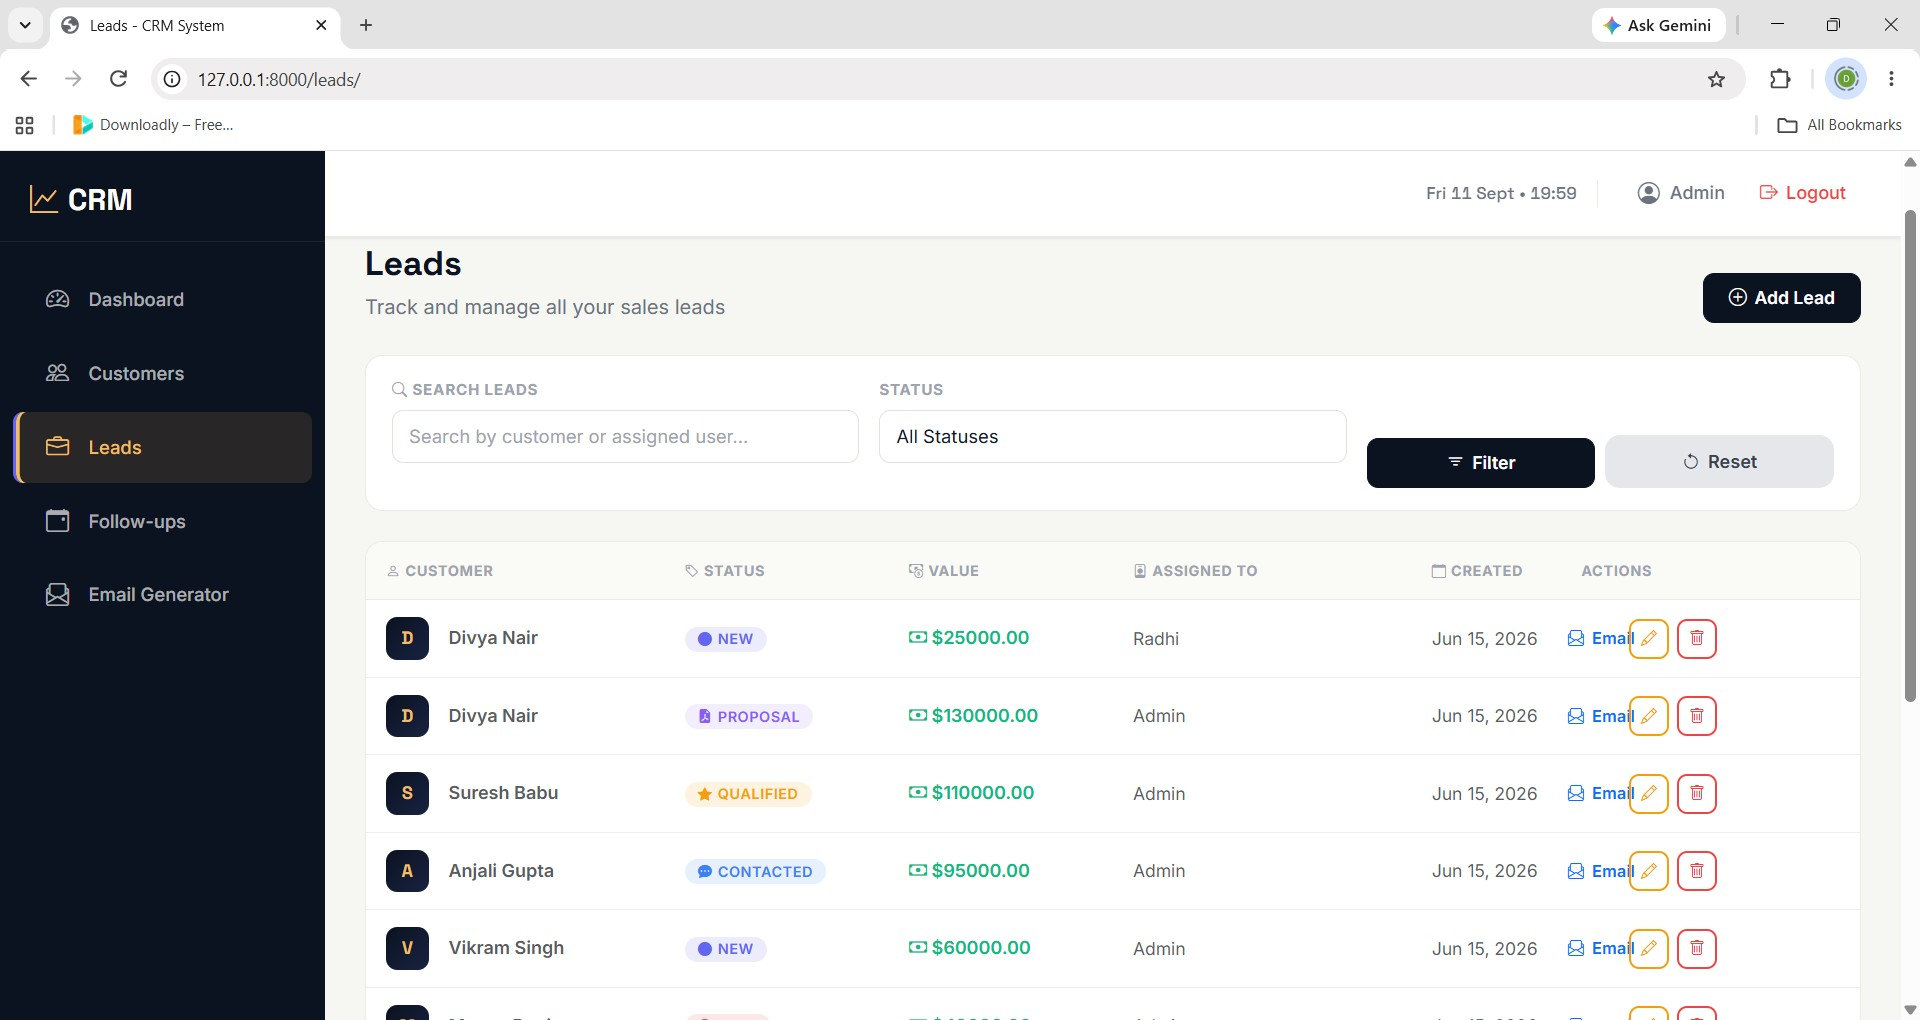
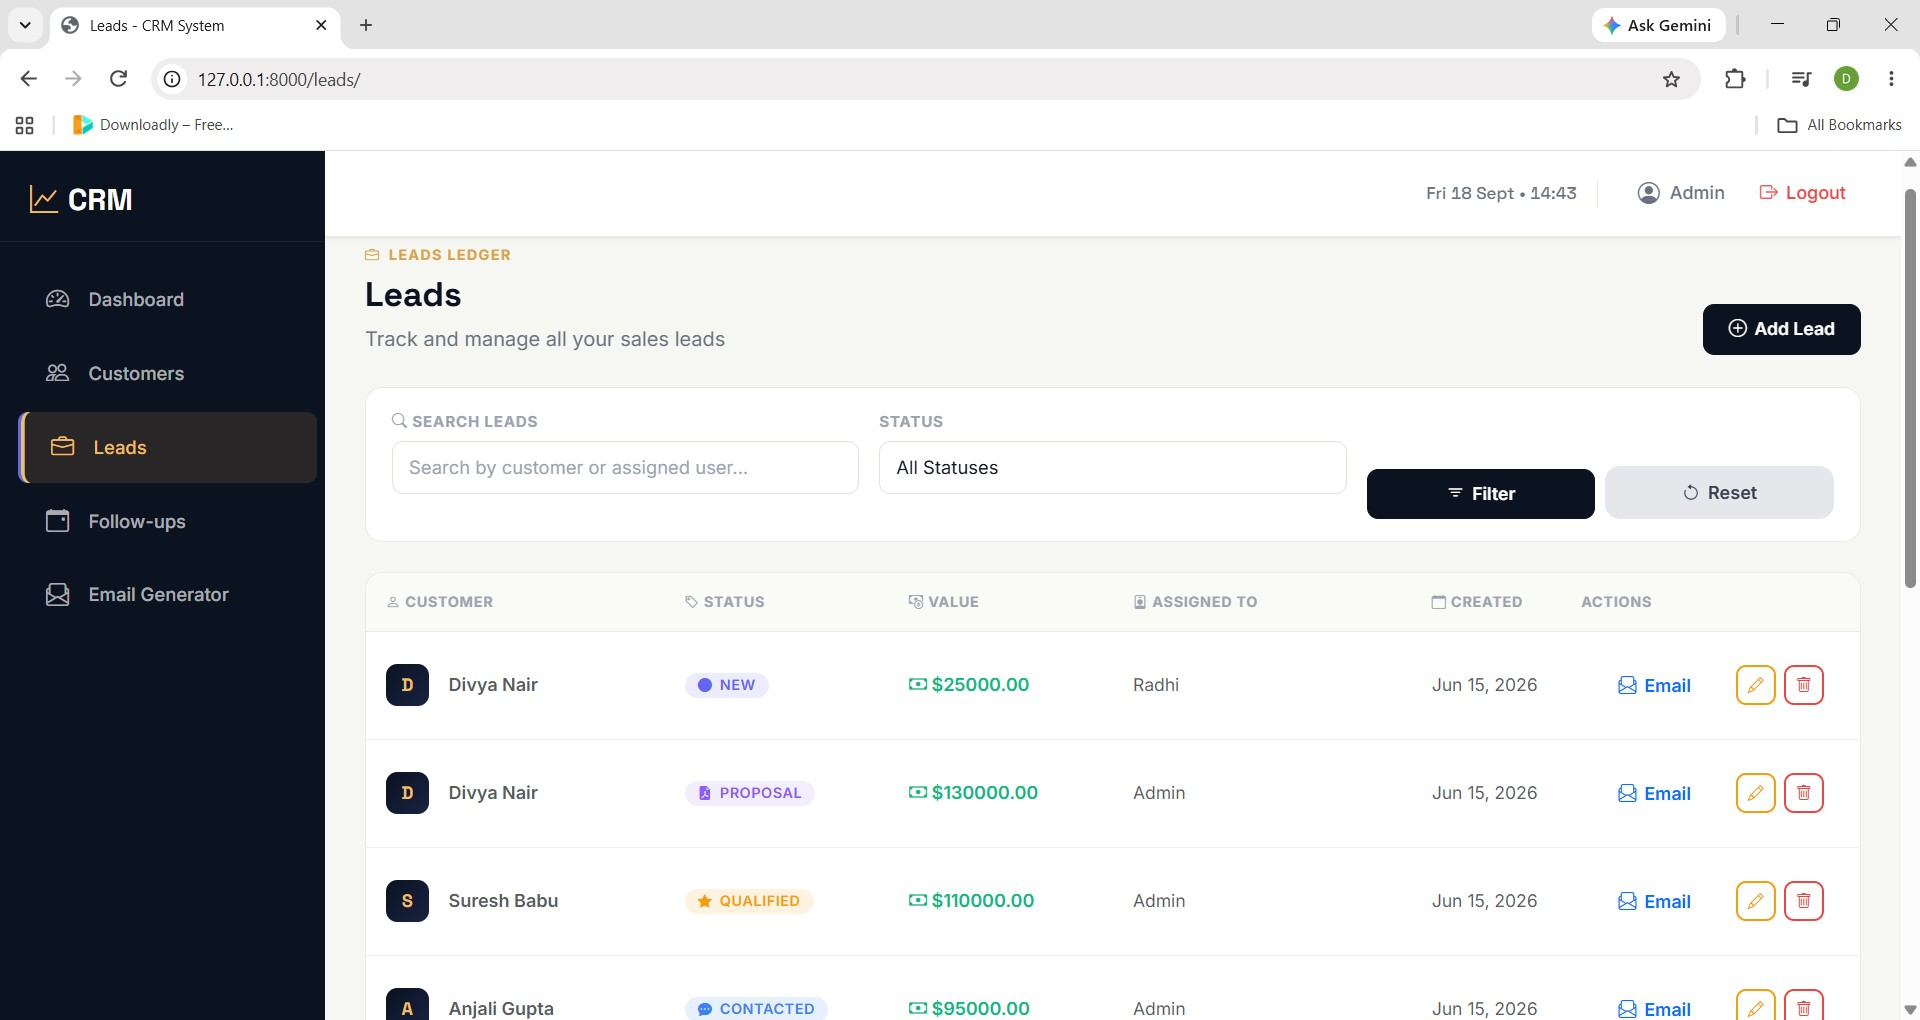
save llm CHANGES

diff --git a/crm_app/static/css/style.css b/crm_app/static/css/style.css
@@ -784,15 +784,161 @@ select.form-control {
   to   { opacity: 1; transform: translateY(0); }
 }
 
+@keyframes fadeInUp {
+  from {
+    opacity: 0;
+    transform: translateY(18px) scale(0.985);
+  }
+  to {
+    opacity: 1;
+    transform: translateY(0) scale(1);
+  }
+}
+
+@keyframes slideInRight {
+  from {
+    opacity: 0;
+    transform: translateX(24px);
+  }
+  to {
+    opacity: 1;
+    transform: translateX(0);
+  }
+}
+
+@keyframes pulseGlow {
+  0% { box-shadow: 0 0 0 0 rgba(99, 102, 241, 0.4); }
+  70% { box-shadow: 0 0 0 8px rgba(99, 102, 241, 0); }
+  100% { box-shadow: 0 0 0 0 rgba(99, 102, 241, 0); }
+}
+
+@keyframes badgePulse {
+  0%, 100% { transform: scale(1); }
+  50% { transform: scale(1.05); }
+}
+
 @keyframes spin {
   to { transform: rotate(360deg); }
 }
 
-.animate-fadein  { animation: fadeIn  0.4s ease-out; }
-.animate-slideup { animation: slideUp 0.4s ease-out; }
+/* Global Smooth Transitions & Micro-Interactions */
+.animate-fadein  { animation: fadeIn 0.45s ease-out forwards; }
+.animate-slideup { animation: slideUp 0.45s cubic-bezier(0.16, 1, 0.3, 1) forwards; }
+.animate-fadein-up { animation: fadeInUp 0.5s cubic-bezier(0.16, 1, 0.3, 1) forwards; }
 
-.dashboard-container { animation: fadeIn 0.4s ease-out; }
-.customer-list-container { animation: fadeIn 0.4s ease-out; }
+.dashboard-container,
+.customer-list-container,
+.lead-list-container,
+.page-container {
+  animation: fadeInUp 0.45s cubic-bezier(0.16, 1, 0.3, 1) forwards;
+}
+
+/* Staggered Delay Helpers */
+.stagger-1 { animation-delay: 0.05s; }
+.stagger-2 { animation-delay: 0.10s; }
+.stagger-3 { animation-delay: 0.15s; }
+.stagger-4 { animation-delay: 0.20s; }
+.stagger-5 { animation-delay: 0.25s; }
+
+/* Interactive Hover Lifts & Dynamic Shadows */
+.stat-card, 
+.card, 
+.info-card,
+.generator-card,
+.auth-card {
+  transition: transform 0.3s cubic-bezier(0.16, 1, 0.3, 1), 
+              box-shadow 0.3s cubic-bezier(0.16, 1, 0.3, 1), 
+              border-color 0.3s ease;
+}
+
+.stat-card:hover, 
+.card:hover, 
+.info-card:hover {
+  transform: translateY(-4px);
+  box-shadow: 0 14px 28px -6px rgba(99, 102, 241, 0.15), 0 6px 16px -4px rgba(0, 0, 0, 0.06);
+}
+
+/* Sidebar Menu Hover Transitions */
+.sidebar-menu a {
+  position: relative;
+  transition: all 0.25s cubic-bezier(0.16, 1, 0.3, 1);
+}
+
+.sidebar-menu a:hover {
+  transform: translateX(4px);
+  background: rgba(255, 255, 255, 0.08);
+}
+
+.sidebar-menu a.active {
+  transform: translateX(4px);
+  box-shadow: inset 3px 0 0 var(--primary-light);
+}
+
+/* Button Click & Hover Animations */
+.btn {
+  transition: transform 0.2s cubic-bezier(0.16, 1, 0.3, 1),
+              box-shadow 0.2s ease,
+              background-color 0.2s ease,
+              border-color 0.2s ease;
+}
+
+.btn:hover {
+  transform: translateY(-2px);
+  box-shadow: 0 6px 16px -3px rgba(99, 102, 241, 0.3);
+}
+
+.btn:active {
+  transform: translateY(0) scale(0.97);
+}
+
+.btn-primary, .btn-gradient {
+  background-size: 200% 200%;
+  transition: all 0.3s ease;
+}
+
+.btn-primary:hover, .btn-gradient:hover {
+  background-position: right center;
+}
+
+/* Form Controls Smooth Focus Effect */
+.form-control, .form-select {
+  transition: border-color 0.25s ease, box-shadow 0.25s ease, transform 0.2s ease;
+}
+
+.form-control:focus, .form-select:focus {
+  transform: translateY(-1px);
+  border-color: var(--primary);
+  box-shadow: 0 0 0 4px rgba(99, 102, 241, 0.15);
+}
+
+/* Table Row Hover & Animation */
+.table-responsive tbody tr {
+  transition: transform 0.2s ease, background-color 0.2s ease, box-shadow 0.2s ease;
+}
+
+.table-responsive tbody tr:hover {
+  transform: scale(1.002) translateY(-1px);
+  background-color: rgba(99, 102, 241, 0.035) !important;
+  box-shadow: 0 4px 12px rgba(0, 0, 0, 0.04);
+}
+
+/* Status Badges Subtle Animation */
+.badge {
+  transition: transform 0.2s ease, box-shadow 0.2s ease;
+  display: inline-flex;
+  align-items: center;
+  gap: 0.35rem;
+}
+
+.badge:hover {
+  transform: scale(1.05);
+}
+
+/* Alert Notification Entrance */
+.alert {
+  animation: slideInRight 0.4s cubic-bezier(0.16, 1, 0.3, 1) forwards;
+  transition: transform 0.2s ease, opacity 0.2s ease;
+}
 
 .progress {
   background: var(--gray-200);
@@ -801,7 +947,7 @@ select.form-control {
 }
 
 .progress-bar {
-  transition: width 0.6s ease;
+  transition: width 0.6s cubic-bezier(0.16, 1, 0.3, 1);
   height: 100%;
 }
 

diff --git a/crm_app/static/css/email_generator.css b/crm_app/static/css/email_generator.css
@@ -4,6 +4,11 @@
     box-shadow: 0 10px 30px rgba(0,0,0,0.08);
     border: 1px solid rgba(229, 231, 235, 0.8);
     overflow: hidden;
+    transition: transform 0.3s cubic-bezier(0.16, 1, 0.3, 1), box-shadow 0.3s ease;
+}
+
+.generator-card:hover {
+    box-shadow: 0 16px 36px rgba(0,0,0,0.12);
 }
 
 .generator-header {
@@ -39,6 +44,8 @@
     border-radius: 12px;
     padding: 1.5rem;
     position: relative;
+    transition: opacity 0.35s ease, transform 0.35s cubic-bezier(0.16, 1, 0.3, 1);
+    animation: fadeInUp 0.4s ease-out forwards;
 }
 
 .result-subject {
@@ -65,11 +72,17 @@
     padding: 0.75rem 1.5rem;
     border-radius: 8px;
     font-weight: 600;
-    transition: all 0.2s ease;
+    transition: all 0.25s cubic-bezier(0.16, 1, 0.3, 1);
+    box-shadow: 0 4px 12px rgba(37, 99, 235, 0.25);
 }
 
 .btn-gradient:hover {
     background: linear-gradient(135deg, #1d4ed8 0%, #1e40af 100%);
     color: white;
-    transform: translateY(-1px);
+    transform: translateY(-2px);
+    box-shadow: 0 8px 20px rgba(37, 99, 235, 0.4);
+}
+
+.btn-gradient:active {
+    transform: translateY(0) scale(0.98);
 }

diff --git a/crm_app/templates/lead/lead-list.html b/crm_app/templates/lead/lead-list.html
@@ -141,9 +141,10 @@
                                 </td>
                                 <td>
                                     <div class="table-actions">
-                                        <a href="{% url 'email-generator' %}?lead_id={{ lead.id }}" class="btn btn-small btn-outline-primary" title="Generate AI Email">
-                                            <i class="bi bi-envelope-paper"></i> Email
-                                        </a>
+                                            <a href="{% url 'email-generator' %}?lead_id={{ lead.id }}" class="btn btn-medium btn-outline-primary m-2" title="Generate AI Email">
+                                                <i class="bi bi-envelope-paper"></i> Email
+                                            </a>
+                                        
                                         {% if is_admin %}
                                             <a href="{% url 'update-lead' lead.id %}" class="btn btn-small btn-outline-warning" title="Edit">
                                                 <i class="bi bi-pencil"></i>

diff --git a/crm_app/static/js/app.js b/crm_app/static/js/app.js
@@ -109,4 +109,11 @@ document.addEventListener("DOMContentLoaded", function () {
       copyToClipboard(btn.getAttribute("data-copy-value"), btn);
     });
   });
+
+  // Stagger entrance animations for stat cards & list items
+  var animatableCards = document.querySelectorAll(".stat-card, .metric-card, .card, .table-responsive tbody tr");
+  animatableCards.forEach(function (el, index) {
+    var staggerClass = "stagger-" + ((index % 5) + 1);
+    el.classList.add("animate-fadein-up", staggerClass);
+  });
 });

diff --git a/crm_app/templates/email_generator/email_generator.html b/crm_app/templates/email_generator/email_generator.html
@@ -197,7 +197,6 @@
                 document.getElementById('resSubject').textContent = data.subject;
                 document.getElementById('resBody').textContent = data.body;
                 
-                // Construct mailto link
                 const mailto = `mailto:?subject=${encodeURIComponent(data.subject)}&body=${encodeURIComponent(data.body)}`;
                 document.getElementById('mailtoLink').setAttribute('href', mailto);
 

diff --git a/crm_project/urls.py b/crm_project/urls.py
@@ -4,5 +4,5 @@ from django.urls import path, include
 urlpatterns = [
     path('admin/', admin.site.urls),
     path('', include("crm_app.urls")),
-    path('api/',include("crm_app.api_urls"))
+    # path('api/',include("crm_app.api_urls"))
 ]
